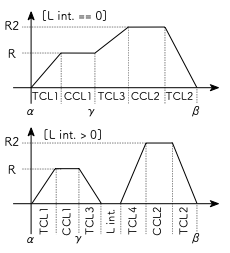
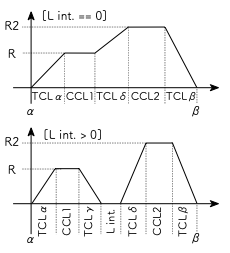
reference guide表現の修正

diff --git a/docs_src/reference_measure.rst b/docs_src/reference_measure.rst
@@ -2,7 +2,7 @@
 Measure ウィンドウ
 ======================
 
-.. image:: ./files/measure.png
+.. image:: ./files/measure2.png
 	   :scale: 60%
 
 
@@ -135,15 +135,15 @@ Mode
     
     * 緩和曲線長について
 
-      * TCL1, TCL3: 曲線軌道1の入口側、出口側
-      * TCL4, TCL2: 曲線軌道2の入口側、出口側
+      * TCLα, TCLγ: 曲線軌道1の入口側、出口側
+      * TCLδ, TCLβ: 曲線軌道2の入口側、出口側
     
   * 求めた軌道について次のパラメータを出力する
 
     * 曲線軌道1の始点とカーソルαとの距離
     * 曲線軌道1の円曲線長CCL1
     * 曲線軌道2の円曲線長CCL2
-    * 曲線軌道1の終点と曲線軌道2の始点の距離L intermediate
+    * 曲線軌道1の終点と曲線軌道2の始点の距離L int.
   * 与えられた条件で軌道が求められない場合、"Invalid parameters"エラーを出す
 
     * 例
@@ -152,6 +152,7 @@ Mode
       * 曲線半径R, R2の符号がカーソルα, γ, βの方位と一貫しない場合
 
   * .. image:: ./files/curvetracksolver_3-2.png
+    	       :scale: 80%
 
 * 4. α(fix), R(fix), CCL(fix)
 
@@ -178,6 +179,7 @@ Mode
     * TCL=0の場合の曲線軌道より内側にカーソルγが位置している場合に発生
       
   * .. image:: ./files/curvetracksolver_1_6.png
+    	       :scale: 80%
 
 * 7. α(free)->β(fix) via γ, R(free)
 
@@ -189,7 +191,7 @@ Mode
 
 * 8. Reverse curve
 
-  * カーソルαを起点、カーソルβの延長線上を終点とする反向曲線（互いに向きの異なる2つの円曲線が接続したもの）を求める
+  * カーソルαを起点、カーソルβの延長線上を終点とする反向曲線（互いに向きの異なる2つの円曲線を接続したもの）を求める
   * 8-1. Reverse α->β
 
     * 起点側の曲線軌道終点はカーソルα, βの中点に自動設定
@@ -202,15 +204,16 @@ Mode
       
   * 入力パラメータ(8-1, 8-2共通)
       
-    * TCL1, 3: 起点側曲線軌道の緩和曲線長(1: 入口側、3:出口側)
-    * TCL4, 2: 終点側曲線軌道の緩和曲線長(4: 入口側、2:出口側)
-    * L intermediate: 2つの曲線軌道の中間に挿入される直線長さ
+    * TCLα, γ: 起点側曲線軌道の緩和曲線長(α: 入口側、γ:出口側)
+    * TCLδ, β: 終点側曲線軌道の緩和曲線長(δ: 入口側、β:出口側)
+    * L int.: 2つの曲線軌道の中間直線長
 
   * .. image:: ./files/curvetracksolver_8.png
+    	       :scale: 80%
 
 * 9. Compound curve
 
-  * カーソルαを起点、カーソルβの延長線上を終点とする複心曲線（半径の異なる二つの円曲線が接続したもの）を求める
+  * カーソルαを起点、カーソルβの延長線上を終点とする複心曲線（半径の異なる二つの円曲線を接続したもの）を求める
 
     * 以下の説明では二つの円曲線の向きが同じ場合を示していますが、カーソルα, βの設定次第では反向曲線も求められます
   * 9-1. Compound α->γ->β
@@ -222,23 +225,24 @@ Mode
 
 	1. カーソルαを起点、カーソルγの延長線上を終点とする曲線の半径R1を求め、起点側曲線軌道の半径とする
 
-	   * この曲線の入口側緩和曲線長さはTCL1、終点側緩和曲線なしとする
+	   * この曲線の入口側緩和曲線長さはTCLα、終点側緩和曲線なしとする
 
 	2. 1.で求めた曲線軌道上の点を始点、カーソルβの延長線上を終点とする曲線(半径R2)を求める
 
-	   * この曲線の入口側緩和曲線長さはTCL4, 終点側緩和曲線長さはTCL2とする
+	   * この曲線の入口側緩和曲線長さはTCLδ, 終点側緩和曲線長さはTCLβとする
 	   * 入口側緩和曲線は、半径R1からR2へ遷移する曲線となる
 
     * 入力パラメータ
       
-      * TCL1: 起点側曲線軌道入口側の緩和曲線長
-      * TCL4: 2つの曲線軌道の中間緩和曲線長
-      * TCL2: 終点側曲線軌道出口側の緩和曲線長
-      * TCL3, L intermediate は無効です
+      * TCLα: 起点側曲線軌道入口側の緩和曲線長
+      * TCLδ: 2つの曲線軌道の中間緩和曲線長
+      * TCLβ: 終点側曲線軌道出口側の緩和曲線長
+      * TCLγ, L int. は無効です
 
     * 与えられた条件で軌道が求められない場合、"Invalid parameters"エラーを出す
 
     * .. image:: ./files/curvetracksolver_9-1.png
+      	         :scale: 80%
       
   * 9-2. Compound α->β (fixed R)
 
@@ -249,18 +253,18 @@ Mode
     * 入力パラメータ
 
       * R: 起点側曲線軌道の半径
-      * L intermediate: 2つの曲線軌道の中間直線長
-      * TCL1: 起点側曲線軌道入口側の緩和曲線長
-      * TCL2: 終点側曲線軌道出口側の緩和曲線長
-      * L intermediate == 0の場合
+      * L int.: 2つの曲線軌道の中間直線長
+      * TCLα: 起点側曲線軌道入口側の緩和曲線長
+      * TCLβ: 終点側曲線軌道出口側の緩和曲線長
+      * L int. == 0の場合
 
-	* TCL4: 2つの曲線軌道の中間緩和曲線長
-	* TC3は無効
+	* TCLδ: 2つの曲線軌道の中間緩和曲線長
+	* TCLγは無効
 
-      * L intermediate > 0の場合
+      * L int. > 0の場合
 
-	* TCL3: 起点側曲線軌道出口側の緩和曲線長
-	* TCL4: 終点側巨船軌道入口側の緩和曲線長
+	* TCLγ: 起点側曲線軌道出口側の緩和曲線長
+	* TCLδ: 終点側巨船軌道入口側の緩和曲線長
 
       * .. image:: ./files/curvetracksolver_9_curvature.png
 	
@@ -269,7 +273,7 @@ Mode
   * 9-3. Compound α->β (fixed R,R2)
 
     * 起点側曲線軌道の半径をR、終点側をR2とした場合の複心曲線を求める
-    * 他はMode 9-2と同一
+    * 入力パラメータにR2が追加される他はMode 9-2と同一
 
 計算結果の出力例
 -----------------------
